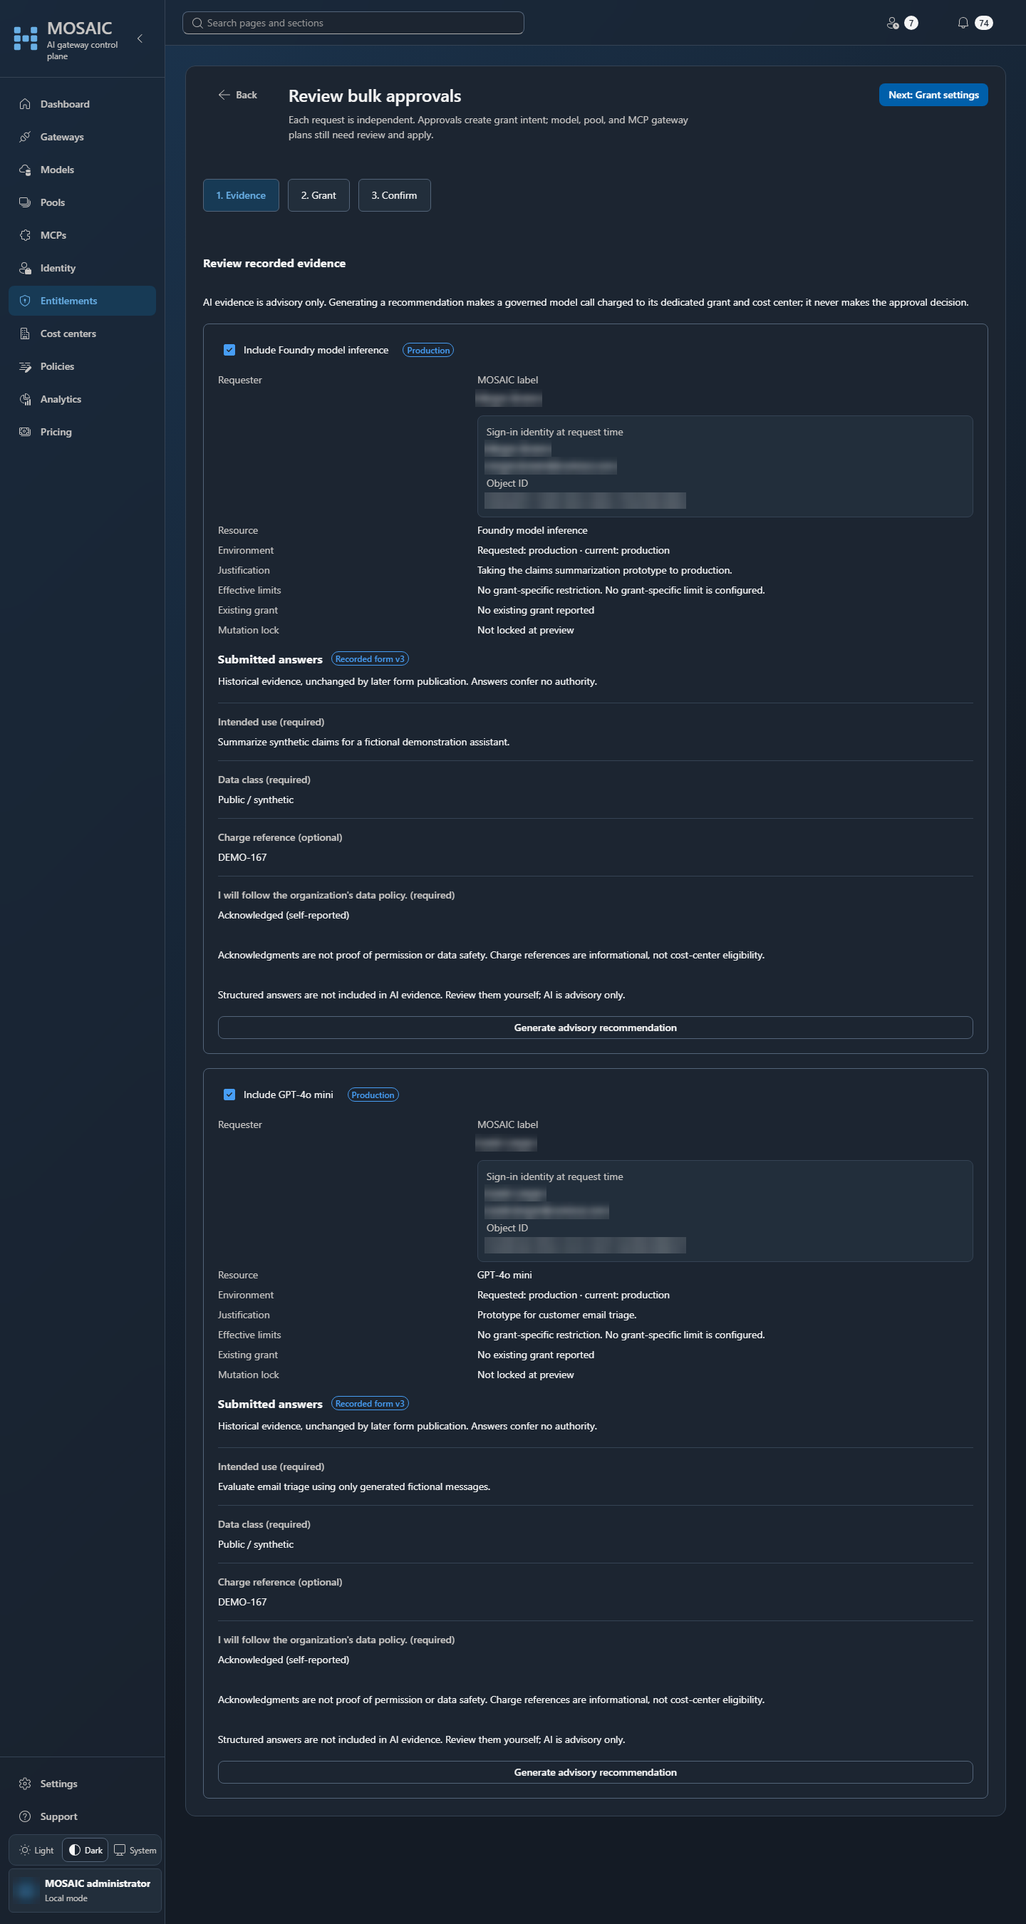
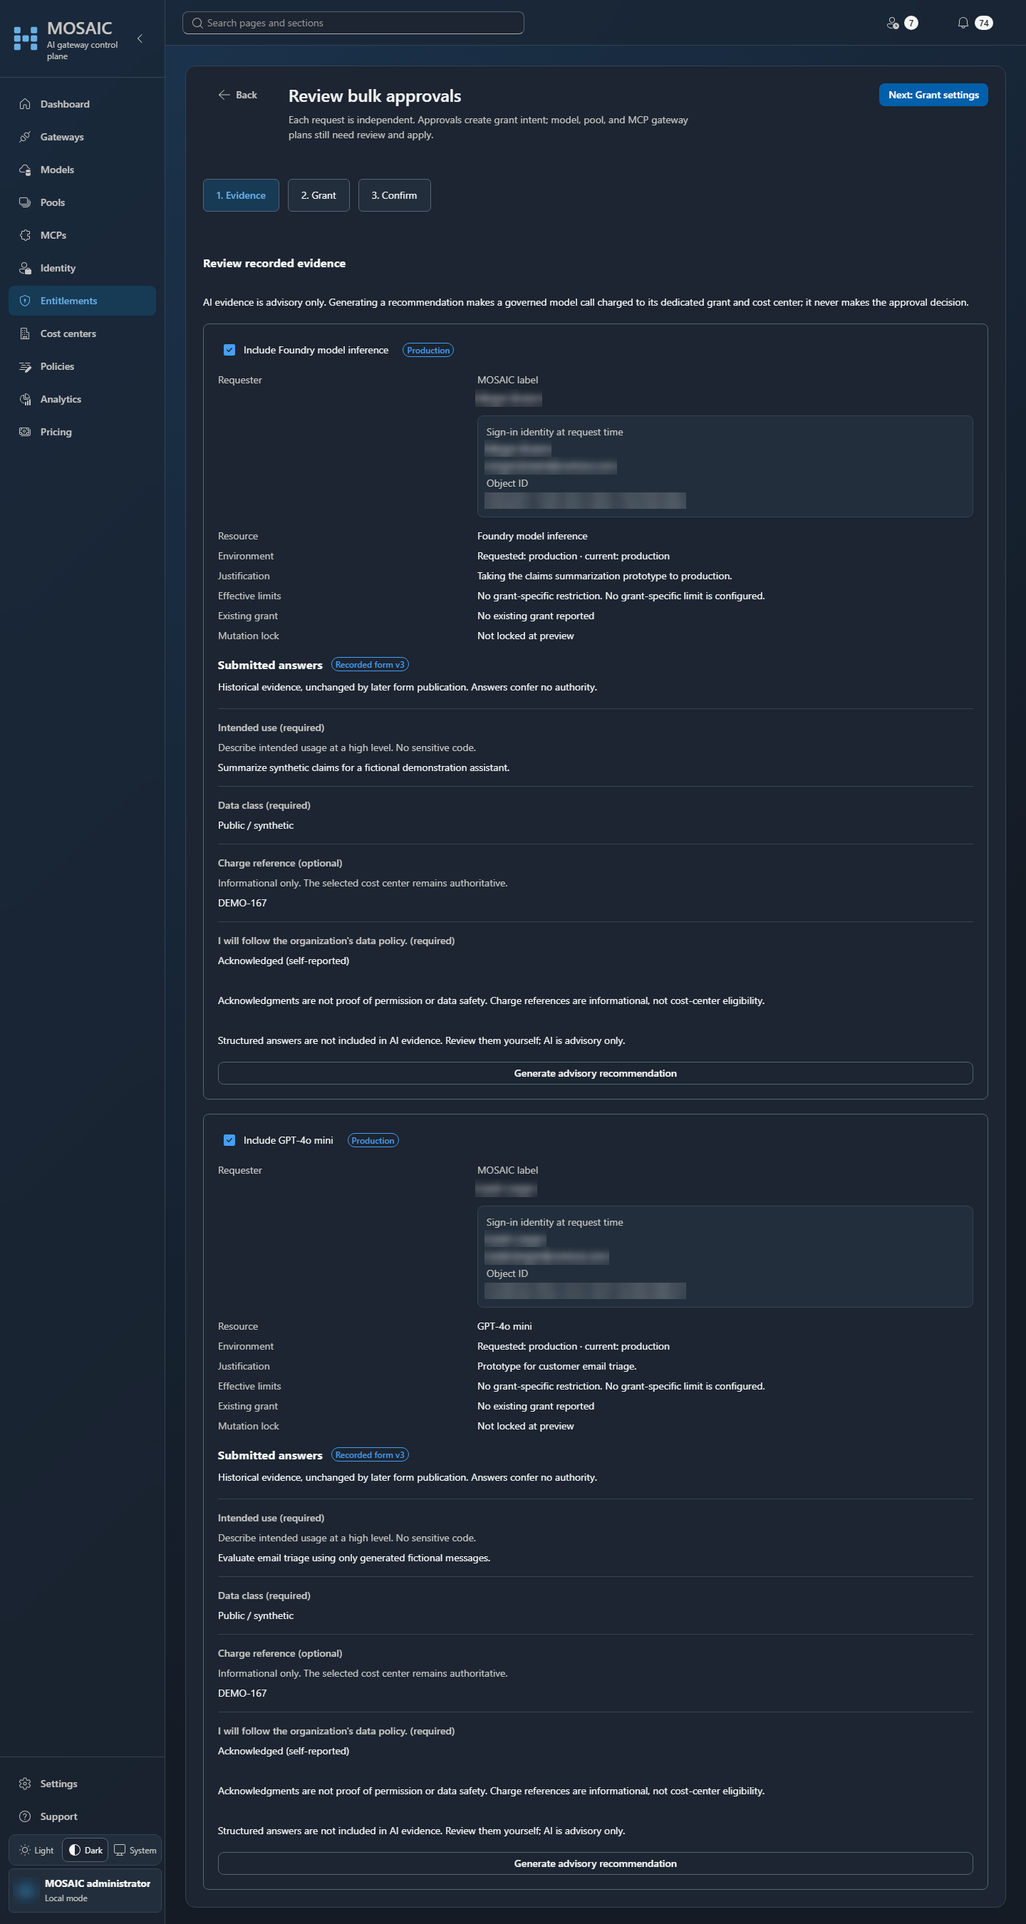
Correct governance review context and recorded evidence
Retain requester identity in bulk Grant and Confirm, show original question
conditions, bind recovery badges to resolved environments, and prevent pending
selection races. Use owner-filtered point reads and bounded jittered retries
without weakening atomic admission or human-review safeguards. Refresh the
three affected official fictional captures and their descriptions.

diff --git a/apps/portal/src/pages/RequestAccessPage.test.tsx b/apps/portal/src/pages/RequestAccessPage.test.tsx
@@ -1,5 +1,5 @@
 import { QueryClient, QueryClientProvider } from '@tanstack/react-query'
-import { fireEvent, render, screen, waitFor } from '@testing-library/react'
+import { act, fireEvent, render, screen, waitFor } from '@testing-library/react'
 import userEvent from '@testing-library/user-event'
 import { createMemoryRouter, RouterProvider, useLocation } from 'react-router-dom'
 import { beforeEach, describe, expect, it, vi } from 'vitest'
@@ -20,7 +20,7 @@ const entry: CatalogEntry = {
   costCenterAccess: [{ costCenter: { id: 'center', name: 'Fictional research', code: 'DEMO' }, mode: 'requestOnly', isDefault: true, keysAllowed: true }],
 }
 const resolution: RequestFormResolution = {
-  revision: 3, status: 'configured', contextRevision: 'a'.repeat(64),
+  revision: 3, status: 'configured', contextRevision: 'a'.repeat(64), environment: 'development',
   questions: [
     { id: 'purpose', kind: 'paragraph', label: 'Intended use', helpText: 'High-level context only.', required: true, maxLength: 2000, options: [] },
     { id: 'data', kind: 'singleChoice', label: 'Data class', helpText: null, required: true, maxLength: null, options: [{ id: 'synthetic', label: 'Synthetic' }, { id: 'unsure', label: 'Unsure' }] },
@@ -28,10 +28,13 @@ const resolution: RequestFormResolution = {
   ],
 }
 function Result() { return <div>My requests: {useLocation().search}</div> }
-function mount() {
+function mount(offering: CatalogEntry = entry) {
   const router = createMemoryRouter([
-    { path: '/catalog', element: <RequestAccessPage entry={entry}
-      environments={[{ key: 'development', displayName: 'Development review', description: null, color: 'brand', production: false, order: 10 }]}
+    { path: '/catalog', element: <RequestAccessPage entry={offering}
+      environments={[
+        { key: 'development', displayName: 'Development review', description: null, color: 'brand', production: false, order: 10 },
+        { key: 'production', displayName: 'Production review', description: null, color: 'danger', production: true, order: 20 },
+      ]}
       initialCostCenterId="center" onBack={() => router.navigate('/back')} /> },
     { path: '/requests', element: <Result /> }, { path: '/back', element: <div>Catalog restored</div> },
   ], { initialEntries: ['/catalog'] })
@@ -69,6 +72,7 @@ describe('guided resource request', () => {
     expect(api.createAccessRequest).not.toHaveBeenCalled()
     await userEvent.click(screen.getByRole('button', { name: 'Next: Review' }))
     expect(screen.getByRole('heading', { name: 'Review request' })).toHaveFocus()
+    expect(screen.getByText('High-level context only.')).toBeVisible()
     await userEvent.click(screen.getByRole('button', { name: 'Back' }))
     expect(screen.getByRole('textbox', { name: /Intended use/ })).toHaveValue('Only fictional research notes.')
     await userEvent.click(screen.getByRole('button', { name: 'Next: Review' }))
@@ -95,6 +99,42 @@ describe('guided resource request', () => {
     expect(screen.getByRole('textbox', { name: /Intended use/ })).toHaveValue('Only fictional research notes.')
     expect(screen.getByRole('checkbox', { name: /I acknowledge/ })).not.toBeChecked()
     expect(api.createAccessRequest).toHaveBeenCalledOnce()
+  })
+  it.each([
+    { environment: 'production', label: 'Production review' },
+    { environment: null, label: 'Unclassified' },
+  ])('shows the resolved $label context after stale recovery instead of the cached offering environment', async ({ environment, label }) => {
+    api.createAccessRequest.mockRejectedValueOnce(new ApiError('The context changed.', 409, { details: { reason: 'requestFormChanged' } }))
+    mount(); await fill()
+    await userEvent.click(screen.getByRole('button', { name: 'Request access' }))
+    await screen.findByText(/Your draft is retained/)
+    api.resolveRequestForm.mockResolvedValue({ ...resolution, revision: 4, contextRevision: 'b'.repeat(64), environment })
+    await userEvent.click(screen.getByRole('button', { name: 'Reload current form' }))
+    await userEvent.click(await screen.findByRole('button', { name: 'Keep compatible answers and review' }))
+    expect(screen.getByText(label)).toBeVisible()
+    expect(screen.queryByText('Development review')).not.toBeInTheDocument()
+    expect(screen.getByRole('textbox', { name: /Intended use/ })).toHaveValue('Only fictional research notes.')
+    await userEvent.click(screen.getByRole('button', { name: 'Next: Review' }))
+    await userEvent.click(screen.getByRole('button', { name: 'Request access' }))
+    await waitFor(() => expect(api.createAccessRequest).toHaveBeenCalledTimes(2))
+    expect(api.createAccessRequest.mock.calls[1][0].requestForm.contextRevision).toBe('b'.repeat(64))
+  })
+  it('locks the selected cost center until its pending resolution completes', async () => {
+    let finish!: (value: RequestFormResolution) => void
+    api.resolveRequestForm.mockImplementationOnce(() => new Promise<RequestFormResolution>(resolve => { finish = resolve }))
+    mount({ ...entry, costCenterAccess: [
+      ...entry.costCenterAccess!,
+      { costCenter: { id: 'alternate', name: 'Other fictional team', code: 'OTHER' }, mode: 'requestOnly', isDefault: false, keysAllowed: true },
+    ] })
+    await userEvent.click(await screen.findByRole('button', { name: 'Next: Questions' }))
+    const center = screen.getByRole('combobox', { name: 'Cost center' })
+    expect(center).toBeDisabled()
+    await userEvent.selectOptions(center, 'alternate')
+    expect(center).toHaveValue('center')
+    await act(async () => finish(resolution))
+    await screen.findByRole('textbox', { name: /Intended use/ })
+    expect(api.resolveRequestForm).toHaveBeenCalledWith({ kind: 'modelApi', id: 'demo', scopeId: null }, 'center')
+    expect(api.createAccessRequest).not.toHaveBeenCalled()
   })
   it('does not turn a failed form lookup into a legacy submission path', async () => {
     api.resolveRequestForm.mockRejectedValue(new Error('Form storage unavailable.'))

diff --git a/apps/web/src/components/RequestFormEditor.test.tsx b/apps/web/src/components/RequestFormEditor.test.tsx
@@ -1,11 +1,11 @@
 import { QueryClient, QueryClientProvider } from '@tanstack/react-query'
-import { render, screen, waitFor } from '@testing-library/react'
+import { act, render, screen, waitFor } from '@testing-library/react'
 import userEvent from '@testing-library/user-event'
 import { beforeEach, describe, expect, it, vi } from 'vitest'
 import { ApiError } from '../api'
 import { MosaicThemeProvider } from '../theme'
 import { RequestFormEditor } from './RequestFormEditor'
-import type { RequestFormPublishInput } from '../types'
+import type { RequestFormPublishInput, RequestFormResolution } from '../types'
 
 const api = vi.hoisted(() => ({
   getRequestForm: vi.fn(), publishRequestForm: vi.fn(), previewRequestForm: vi.fn(),
@@ -15,7 +15,10 @@ vi.mock('../api', async importOriginal => ({
 }))
 function mount() {
   render(<MosaicThemeProvider><QueryClientProvider client={new QueryClient({ defaultOptions: { queries: { retry: false } } })}>
-    <RequestFormEditor resources={[{ label: 'Fictional model', resource: { kind: 'modelApi', id: 'demo' } }]} />
+    <RequestFormEditor resources={[
+      { label: 'Fictional model', resource: { kind: 'modelApi', id: 'demo' } },
+      { label: 'Other fictional model', resource: { kind: 'modelApi', id: 'other' } },
+    ]} />
   </QueryClientProvider></MosaicThemeProvider>)
 }
 async function prepare() {
@@ -33,6 +36,28 @@ beforeEach(() => {
   api.publishRequestForm.mockImplementation(async (body: RequestFormPublishInput) => ({ revision: 1, definition: body.definition }))
 })
 describe('guided request form publication', () => {
+  it('clears a different offering preview and prevents selection changes while resolving it', async () => {
+    api.previewRequestForm.mockResolvedValueOnce({
+      revision: 0, status: 'configured', contextRevision: 'a'.repeat(64), environment: 'development',
+      questions: [{ id: 'first', kind: 'paragraph', label: 'First offering evidence', required: true }],
+    })
+    mount(); await prepare()
+    const offering = screen.getByRole('combobox', { name: 'Preview exact offering' })
+    await userEvent.selectOptions(offering, JSON.stringify(['modelApi', null, 'demo']))
+    await userEvent.click(screen.getByRole('button', { name: 'Preview questions' }))
+    expect(await screen.findByText('Current draft preview')).toBeVisible()
+    await userEvent.selectOptions(offering, JSON.stringify(['modelApi', null, 'other']))
+    expect(screen.queryByText('Current draft preview')).not.toBeInTheDocument()
+    expect(screen.queryByText(/First offering evidence -/)).not.toBeInTheDocument()
+    let finish!: (value: RequestFormResolution) => void
+    api.previewRequestForm.mockImplementationOnce(() => new Promise<RequestFormResolution>(resolve => { finish = resolve }))
+    await userEvent.click(screen.getByRole('button', { name: 'Preview questions' }))
+    expect(offering).toBeDisabled()
+    await act(async () => finish({ revision: 0, status: 'notRequired', contextRevision: 'b'.repeat(64), environment: 'production', questions: [] }))
+    expect(await screen.findByText('Current draft preview')).toBeVisible()
+    expect(offering).toHaveValue(JSON.stringify(['modelApi', null, 'other']))
+    expect(api.publishRequestForm).not.toHaveBeenCalled()
+  })
   it('previews without a write and requires explicit enablement at the final publish step', async () => {
     mount(); await prepare()
     await userEvent.selectOptions(screen.getByRole('combobox', { name: 'Preview exact offering' }), JSON.stringify(['modelApi', null, 'demo']))

diff --git a/apps/portal/src/pages/RequestAccessPage.tsx b/apps/portal/src/pages/RequestAccessPage.tsx
@@ -136,6 +136,7 @@ export function RequestAccessPage({ entry, environments, initialCostCenterId, in
     setStep(latest.status === 'configured' ? 1 : 2)
   }
   const error = create.isError ? create.error : resolver.isError ? resolver.error : check.isError ? check.error : null
+  const displayedContext = latest ?? resolution
   return <section className="governance-request" data-request-form>
     <UnsavedChanges dirty={dirty} title="Discard this access request?" />
     <Button appearance="subtle" onClick={() => onBack(centerId)} disabled={busy}>Back to Catalog</Button>
@@ -145,7 +146,7 @@ export function RequestAccessPage({ entry, environments, initialCostCenterId, in
     </ol>
     <h2 ref={heading} tabIndex={-1}>{['Confirm offering', 'Governance questions', 'Review request'][step]}</h2>
     <div className="governance-context"><strong>{entry.displayName}</strong>
-      <EnvironmentBadge azureCloud={entry.azureCloud ?? 'commercial'} environment={entry.environment} environments={environments} />
+      <EnvironmentBadge azureCloud={entry.azureCloud ?? 'commercial'} environment={displayedContext ? displayedContext.environment : entry.environment} environments={environments} />
       {access && <span>Charged to {access.costCenter.name} ({access.costCenter.code})</span>}
     </div>
     {error && <AnnounceProvider value={announcement}><div ref={outcome} tabIndex={-1}>
@@ -155,7 +156,7 @@ export function RequestAccessPage({ entry, environments, initialCostCenterId, in
     <form ref={form} onSubmit={submit} className="governance-form" autoComplete="off" noValidate>
       {step === 0 && <>
         <Field label="Cost center" required hint="Only an eligible Request-only cost center can receive this individual request. A default is not permission.">
-          <Select value={centerId} onChange={(_, data) => setSelectedCenter(data.value)}>
+          <Select value={centerId} disabled={busy} onChange={(_, data) => setSelectedCenter(data.value)}>
             <option value="">Choose a cost center</option>
             {centerId && !entry.costCenterAccess?.some(item => item.costCenter.id === centerId) && <option value={centerId}>Selected cost center unavailable</option>}
             {(entry.costCenterAccess ?? []).map(item => <option key={item.costCenter.id} value={item.costCenter.id}>

diff --git a/apps/web/src/components/AdminGovernance.test.tsx b/apps/web/src/components/AdminGovernance.test.tsx
@@ -82,6 +82,23 @@ beforeEach(() => {
   api.listPrincipals.mockResolvedValue([])
 })
 describe('bulk approval workspace', () => {
+  it('keeps distinct requesters visible while editing and confirming requests for the same offering', async () => {
+    const firstItem = formedPreview()
+    const nextItem = formedPreview()
+    firstItem.request = { ...firstItem.request, requesterName: 'Fictional Avery' }
+    nextItem.request = { ...nextItem.request, id: 'r2', requesterObjectId: 'other-requester', requesterName: 'Fictional Morgan' }
+    api.previewBulkApprovals.mockResolvedValue({ items: [firstItem, nextItem], unavailable: [] })
+    mount(<BulkApprovalWorkspace requestIds={['r1', 'r2']} principals={undefined} costCenters={[]}
+      onBack={vi.fn()} onComplete={vi.fn()} />)
+    expect(await screen.findByText('Fictional Avery')).toBeVisible()
+    fireEvent.click(screen.getByRole('button', { name: 'Next: Grant settings' }))
+    expect(screen.getByText('Fictional Avery')).toBeVisible()
+    expect(screen.getByText('Fictional Morgan')).toBeVisible()
+    fireEvent.click(screen.getByRole('button', { name: 'Next: Confirm' }))
+    expect(screen.getByText('Fictional Avery')).toBeVisible()
+    expect(screen.getByText('Fictional Morgan')).toBeVisible()
+    expect(api.approveBulkRequests).not.toHaveBeenCalled()
+  })
   it.each([null, 99])('retains the authoritative original preview when cached original defaults are %s', async calls => {
     api.previewBulkApprovals.mockResolvedValue({ items: [formedPreview()], unavailable: [] })
     mount(<BulkApprovalWorkspace requestIds={['r1']} principals={[]}

diff --git a/apps/portal/src/pages/MyRequestsPage.test.tsx b/apps/portal/src/pages/MyRequestsPage.test.tsx
@@ -95,6 +95,19 @@ function renderPage(requests: AccessRequest[], withdrawAccessRequest = vi.fn(), 
 }
 
 describe('MyRequestsPage', () => {
+  it('shows the original acknowledgment conditions with the selected request answers', async () => {
+    const record = accessRequest({ requestFormSummary: { revision: 3, questionCount: 1, answerCount: 1 } })
+    renderPage([record])
+    mocks.api.getAccessRequest = vi.fn().mockResolvedValue({ ...record, recordedForm: {
+      formatVersion: 1, revision: 3,
+      questions: [{ id: 'ack', kind: 'acknowledgment', label: 'Original data policy', helpText: 'Only fictional synthetic records were permitted.', required: true, maxLength: null, options: [] }],
+      answers: [{ questionId: 'ack', value: true }],
+    } })
+    await userEvent.click(await screen.findByRole('button', { name: 'View submitted answers (form v3)' }))
+    expect(await screen.findByText('Only fictional synthetic records were permitted.')).toBeVisible()
+    expect(screen.getByText('Acknowledged (self-reported)')).toBeVisible()
+    expect(mocks.api.getAccessRequest).toHaveBeenCalledWith(record.id)
+  })
   it('combines distinct request kinds and counts without treating a center as a resource', async () => {
     renderPage([accessRequest({ id: 'same-id' })], vi.fn(), '/requests', [costCenterRequest({ id: 'same-id' })])
     expect(await screen.findByRole('heading', { name: 'Research team' })).toBeVisible()

diff --git a/apps/web/src/components/BulkApprovalWorkspace.tsx b/apps/web/src/components/BulkApprovalWorkspace.tsx
@@ -181,8 +181,10 @@ export function BulkApprovalWorkspace({ requestIds, principals, principalsPendin
               <Checkbox label={`Include ${item.resourceSummary?.displayName ?? 'request'}`} checked={draft.included} disabled={item.blockers.length > 0 || item.mutationLocked || guided && step === 2} onChange={(_, d) => update(item, { included: Boolean(d.checked) })} />
               <Badge appearance="outline">{item.production ? 'Production' : item.currentEnvironment ?? 'Unclassified'}</Badge>
             </div>
-            <div hidden={guided && step !== 0}><dl className={styles.facts}>
+            <dl className={styles.facts}>
               <div><dt>Requester</dt><dd><AccessRequestRequester requester={requester} showRegistrationEffect registrationPending={principalsPending} /></dd></div>
+            </dl>
+            <div hidden={guided && step !== 0}><dl className={styles.facts}>
               <div><dt>Resource</dt><dd>{item.resourceSummary?.displayName ?? item.request.resourceSnapshot?.displayName ?? 'Resource unavailable'}</dd></div>
               <div><dt>Environment</dt><dd>Requested: {item.request.requestedEnvironment ?? 'Unclassified'} · current: {item.currentEnvironment ?? 'Unclassified'}</dd></div>
               <div><dt>Justification</dt><dd>{item.request.justification ?? 'None supplied'}</dd></div>

diff --git a/apps/web/src/components/ApproveAccessRequestDialog.test.tsx b/apps/web/src/components/ApproveAccessRequestDialog.test.tsx
@@ -162,7 +162,7 @@ function requesterLines() {
 describe('ApproveAccessRequestDialog', () => {
   it('guides a form-bearing request through evidence and grant review before the final intent action', async () => {
     const recorded: RequestFormSnapshotView = { formatVersion: 1, revision: 3, questions: [{
-      id: 'purpose', kind: 'paragraph', label: 'Original intended use', helpText: null, required: true,
+      id: 'purpose', kind: 'paragraph', label: 'Original intended use', helpText: 'Original conditions: fictional data only.', required: true,
       maxLength: 2000, options: [],
     }], answers: [{ questionId: 'purpose', value: 'Only fictional research notes.' }] }
     const { onApprove } = renderDialog({ accessRequest: {
@@ -170,6 +170,7 @@ describe('ApproveAccessRequestDialog', () => {
       requestFormSummary: { revision: 3, questionCount: 1, answerCount: 1 },
     } })
     expect(screen.getByText('Only fictional research notes.')).toBeVisible()
+    expect(screen.getByText('Original conditions: fictional data only.')).toBeVisible()
     expect(screen.queryByRole('button', { name: 'Approve and create grant' })).not.toBeInTheDocument()
     await userEvent.click(screen.getByRole('button', { name: 'Next: Grant settings' }))
     const note = screen.getByRole('textbox', { name: 'Decision note' })

diff --git a/apps/web/src/components/RequestFormEditor.tsx b/apps/web/src/components/RequestFormEditor.tsx
@@ -226,7 +226,9 @@ export function RequestFormEditor({ resources, environments }: {
         </div>)}
       </section>)}
       <section><h4>Preview applicable questions</h4>
-        <Field label="Preview exact offering"><Select value={previewResource} onChange={(_, data) => setPreviewResource(data.value)}>
+        <Field label="Preview exact offering"><Select value={previewResource} disabled={preview.isPending} onChange={(_, data) => {
+          setPreviewResource(data.value); preview.reset(); setPreviewDraft('')
+        }}>
           <option value="">Choose an offering</option>{resources.map(item => <option key={key(item.resource)} value={key(item.resource)}>{item.label}</option>)}
         </Select></Field>
         <Button disabled={!previewResource} disabledFocusable={preview.isPending} onClick={() => { if (!preview.isPending) preview.mutate() }}>Preview questions</Button>

diff --git a/apps/portal/src/components/RequestFormAnswers.tsx b/apps/portal/src/components/RequestFormAnswers.tsx
@@ -17,7 +17,7 @@ export function RequestFormAnswers({ form, draft = false }: { form: RequestFormS
         : question.kind === 'singleChoice' ? question.options.find(option => option.id === value)?.label ?? 'Recorded choice unavailable'
         : String(value)
       return <div key={question.id}><dt>{question.label}{question.required ? ' (required)' : ' (optional)'}</dt>
-        <dd>{text}</dd></div>
+        <dd>{question.helpText && <p>{question.helpText}</p>}{text}</dd></div>
     })}</dl>
     <p>Acknowledgments are self-reported, not proof of permission or data safety. A charge reference does not change the charged cost center.</p>
   </section>

diff --git a/apps/web/src/components/RequestFormAnswers.tsx b/apps/web/src/components/RequestFormAnswers.tsx
@@ -15,7 +15,7 @@ export function RequestFormAnswers({ form }: { form: RequestFormSnapshotView }) 
         : question.kind === 'singleChoice' ? question.options.find(option => option.id === value)?.label ?? 'Recorded choice unavailable'
         : String(value)
       return <div key={question.id}><dt>{question.label}{question.required ? ' (required)' : ' (optional)'}</dt>
-        <dd>{text}</dd></div>
+        <dd>{question.helpText && <p>{question.helpText}</p>}{text}</dd></div>
     })}</dl>
     <Text>Acknowledgments are not proof of permission or data safety. Charge references are informational, not cost-center eligibility.</Text>
   </section>

diff --git a/apps/portal/src/index.css b/apps/portal/src/index.css
@@ -63,6 +63,7 @@
 .recorded-request-form dl > div { padding: 16px 0; border-top: 1px solid var(--mosaic-border-soft); }
 .recorded-request-form dt { color: var(--mosaic-text-muted); font-weight: 600; }
 .recorded-request-form dd { margin: 8px 0 0; white-space: pre-wrap; overflow-wrap: anywhere; }
+.recorded-request-form dd p { margin: 0 0 8px; color: var(--mosaic-text-muted); }
 @media (max-width: 600px) { .governance-form { padding: 16px; } .governance-steps { gap: 8px; } .governance-steps li { padding: 10px 12px; } }
 
 .cost-center-search { display: flex; flex-wrap: wrap; align-items: end; gap: 12px; margin: 24px 0; }

diff --git a/apps/web/src/index.css b/apps/web/src/index.css
@@ -80,6 +80,7 @@
 .recorded-request-form dl > div { padding: 16px 0; border-top: 1px solid var(--mosaic-border-soft); }
 .recorded-request-form dt { color: var(--mosaic-text-muted); font-weight: 600; }
 .recorded-request-form dd { margin: 8px 0 0; white-space: pre-wrap; overflow-wrap: anywhere; }
+.recorded-request-form dd p { margin: 0 0 8px; max-width: 75ch; color: var(--mosaic-text-muted); }
 
 html,
 body,
